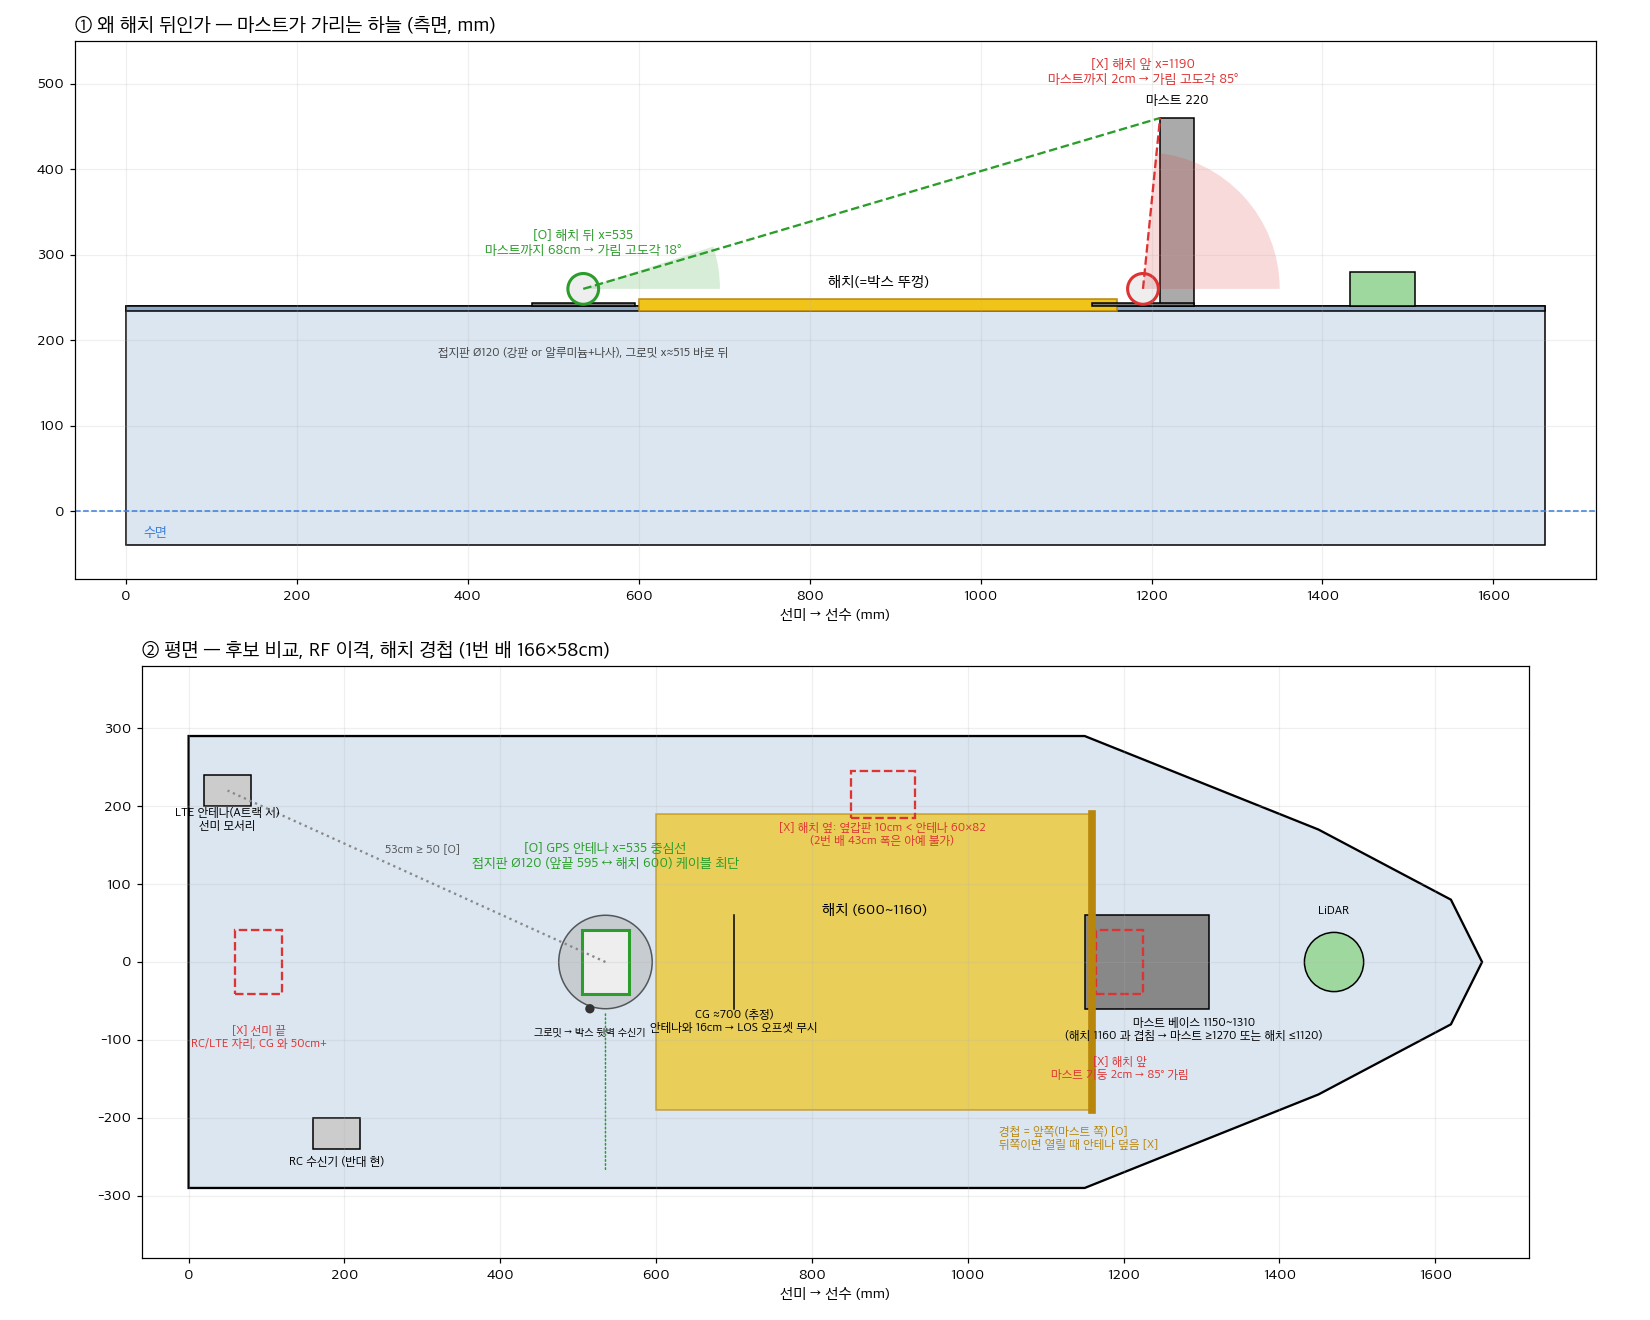
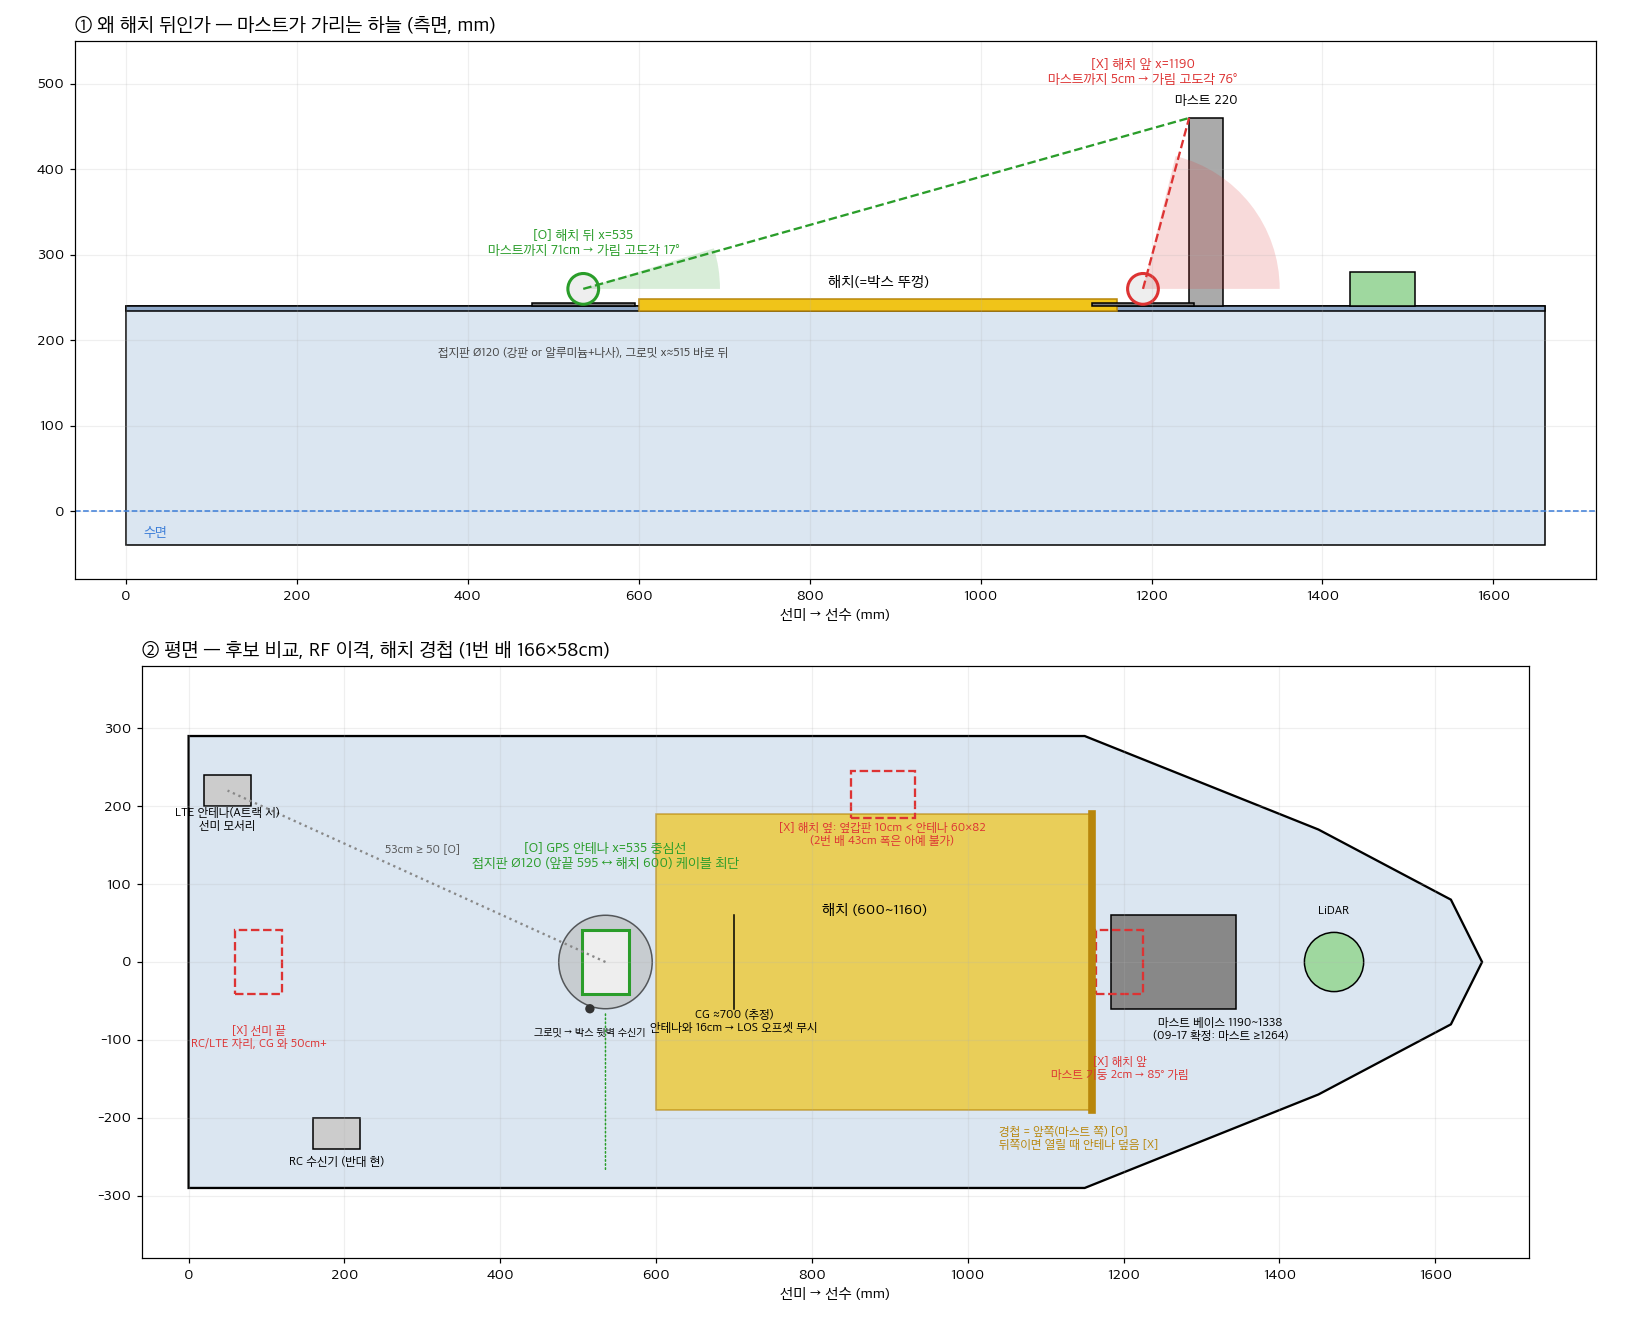
docs/tools: 마스트 x 1230 -> 1264 를 그림·회신 프롬프트까지 반영
앞 커밋에서 배치 요구사항과 출력지침만 고쳤고 그림 스크립트와 회신 프롬프트가 1230 으로 남아 있었다.
(추천도 스크립트는 치환 패턴이 안 맞아 실제로는 안 바뀐 채 그림만 다시 그려졌었다)

- tools/mast_recommend_plot.py MX 1230->1264, 라벨 'x≈1230 ?' -> 'x>=1264'
- tools/gps_antenna_plot.py MX 1230->1264, '마스트 >=1270 또는 해치 <=1120' -> '>=1264 확정'
- 하드웨어_위치_회신_프롬프트: 담당자에게 주는 마스트 x 를 >=1264 로 (사람이 이 값으로 실측한다)
- 마스트_요구사항 2-6 의 FOV 계산은 당시 기록이라 숫자를 바꾸지 않고 주석만 달았다
  (마스트가 밀려 뱃머리 거리 41 -> 약 37cm)

그림 2장 재생성.

diff --git a/tools/mast_recommend_plot.py b/tools/mast_recommend_plot.py
@@ -39,14 +39,14 @@ GX = 480
 ax.add_patch(Rectangle((GX - 60, DECK), 120, 4, fc="#999", ec="k"))
 ax.add_patch(Circle((GX, DECK + 22), 20, fc="#eee", ec="k")); ax.text(GX, DECK + 56, "GPS 안테나[확정]\n뚜껑 옆 고정 갑판 + 접지판Ø10cm+", ha="center", fontsize=9)
 # 마스트
-MX = 1230
+MX = 1264   # [09-17] 1230→1264: 베이스 147.8 깊이 + 해치 이격 30
 ax.add_patch(Rectangle((MX - 95, DECK), 190, 28, fc="#888", ec="k"))  # base v2 (IMU 포켓, 두께 IMU 높이 따라 20~28)
 ax.add_patch(Rectangle((MX - 20, DECK + 28), 40, 158, fc="#aaa", ec="k"))  # column → 캡 상단 186
 ax.add_patch(Rectangle((MX + 20, DECK + 89), 90, 6, fc="#777", ec="k"))  # D455 선반 (갑판+95, 관 면에서 40 물림)
 ax.add_patch(Rectangle((MX + 66, DECK + 95), 26, 29, fc="#7aa7e8", ec="k")); ax.text(MX + 130, DECK + 100, "D455 (조종) 아래단 선반 −15° [v2]\n렌즈 ≈ 갑판+110", fontsize=9, va="top")
 ax.add_patch(Rectangle((MX + 27, DECK + 134), 31, 82, fc="#f4a261", ec="k")); ax.text(MX + 130, DECK + 200, "OAK-1 PoE 꼭대기 −11°, 롤 0 [v2 확정]\n중심 갑판+175, 상단 218 ≤ 220\n뒷면 M4×4, RJ45 그랜드 아래(끝 ≈+97)", fontsize=9, va="top")
 ax.add_patch(Rectangle((MX + 30, DECK + 99), 16, 35, fc="#c98a3a", ec="k"))  # RJ45 그랜드
-ax.text(MX - 60, DECK + 250, "마스트 v2 ≤220mm 프린트(PETG/ASA)[확정]\nx≈1230 ? (박스 자리 확정 후)\n갑판 관통 M5×4 + 가로대", ha="center", fontsize=9)
+ax.text(MX - 60, DECK + 250, "마스트 v2 ≤220mm 프린트(PETG/ASA)[확정]\nx≥1264 (베이스 147.8 + 해치 이격 30)\n갑판 관통 M5×4 + 가로대", ha="center", fontsize=9)
 ax.annotate("", xy=(MX + 110, DECK), xytext=(MX + 110, DECK + 220), arrowprops=dict(arrowstyle="<->", color="k")); ax.text(MX + 116, DECK + 40, "220", fontsize=9)
 # IMU (마스트 베이스 포켓)
 ax.add_patch(Rectangle((MX - 82, DECK + 4), 50, 20, fc="#c00", ec="k")); ax.text(MX - 125, DECK + 150, "IMU 베이스 포켓 + 나일론 M3 뚜껑[확정, v2]\n케이스 실측 대기(가정 50×50×20)\n굵은 배선과 30cm+, |m| 확인 ▼", ha="right", va="bottom", fontsize=8, color="#c00"); ax.plot([MX - 130, MX - 57], [DECK + 148, DECK + 26], color="#c00", lw=0.8)

diff --git a/tools/gps_antenna_plot.py b/tools/gps_antenna_plot.py
@@ -13,7 +13,7 @@ matplotlib.rcParams["axes.unicode_minus"] = False
 OUT = os.path.join(os.path.dirname(os.path.abspath(__file__)), "..", "docs", "전달용", "배치도", "gps_antenna_position.png")
 L, W = 1660, 580
 BX0, BX1 = 600, 1160          # 박스(=해치) 앞뒤 (선미 기준)
-MX, LX = 1230, 1470
+MX, LX = 1264, 1470   # [09-17] 마스트 1230→1264 (베이스 깊이)
 GX = 535                      # [O] 안테나 (09-16: 케이블 짧아 해치 바로 뒤로. 접지판 Ø120)
 DECK = 240                    # 건현 가정
 MAST_TOP = DECK + 220
@@ -46,7 +46,7 @@ hull = Polygon([[0, -W/2], [1150, -W/2], [1450, -W/2 + 120], [1620, -80], [1660,
 a2.add_patch(hull)
 a2.add_patch(Rectangle((BX0, -190), BX1 - BX0, 380, fc="#f0c419", ec="#b8860b", alpha=0.7)); a2.text((BX0 + BX1) / 2, 60, "해치 (600~1160)", ha="center", fontsize=10)
 a2.plot([BX1, BX1], [-190, 190], color="#b8860b", lw=5); a2.text(BX1 - 120, -240, "경첩 = 앞쪽(마스트 쪽) [O]\n뒤쪽이면 열릴 때 안테나 덮음 [X]", fontsize=8, color="#b8860b")
-a2.add_patch(Rectangle((MX - 80, -60), 160, 120, fc="#888", ec="k")); a2.text(MX + 60, -100, "마스트 베이스 1150~1310\n(해치 1160 과 겹침 → 마스트 ≥1270 또는 해치 ≤1120)", ha="center", fontsize=8)
+a2.add_patch(Rectangle((MX - 80, -60), 160, 120, fc="#888", ec="k")); a2.text(MX + 60, -100, "마스트 베이스 1190~1338\n(09-17 확정: 마스트 ≥1264)", ha="center", fontsize=8)
 a2.add_patch(Circle((LX, 0), 38, fc="#9fd89f", ec="k")); a2.text(LX, 60, "LiDAR", ha="center", fontsize=8)
 # [O] GPS
 a2.add_patch(Circle((GX, 0), 60, fc="#bbb", ec="k", alpha=0.6)); a2.add_patch(Circle((GX - 20, -60), 6, fc="#333")); a2.text(GX - 20, -95, "그로밋 → 박스 뒷벽 수신기", ha="center", fontsize=7); a2.add_patch(Rectangle((GX - 30, -41), 60, 82, fc="#eee", ec="#2a9d2a", lw=2))

diff --git a/docs/전달용/하드웨어_위치_회신_프롬프트.md b/docs/전달용/하드웨어_위치_회신_프롬프트.md
@@ -21,7 +21,7 @@
 
 [이미 정해진 것 — 2026-09-16 기준]
 - 갑판(FRP) 을 선체 위에 덮는다. 방수 박스는 갑판 아래 선체 안, 박스 뚜껑 = 해치(갑판 면에 노출). 비상버튼은 뚜껑 위.
-- 마스트: 3D 프린트(PETG/ASA), 갑판 위 최고점 ≤ 220mm, 중심선, 선수가 좁아지기 직전(1번 배 선미에서 ≈1230mm, 2번 배 ≈1130mm). FRP 갑판 관통 M5×4 + 뒷면 와셔/백플레이트.
+- 마스트: 3D 프린트(PETG/ASA), 갑판 위 최고점 ≤ 220mm, 중심선, 선수가 좁아지기 직전(1번 배 선미에서 **≥1264mm**(09-17: 베이스 147.8 깊이 + 해치 이격 30), 2번 배 ≈1130mm(미확정)). FRP 갑판 관통 M5×4 + 뒷면 와셔/백플레이트.
 - 마스트에 올라가는 것: **OAK-1 PoE 카메라(꼭대기, 중심 갑판 +175, 아래 11°)**, **RealSense D455(아래 선반 갑판 +85, 아래 15°)**, **IMU(베이스 블록 포켓 — 베이스 우현(+X) 쪽, 케이블은 관 쪽(−X) Ø8 터널로 중앙 구멍에 합류)**. 그 외는 안 올린다.
 - 소프트 쪽 사실: 조향 후보는 LiDAR **전방 ±80°(0~160°)** 만 쓴다(`ship_direction` LIDAR_FORWARD_DEG=80). IMU 는 **z축 위(UP)**, 헤딩은 자기(N4) — 절차 `docs/문제와작업/N4_mag_heading_B_준비.md`. GPS 헤딩(Moving Baseline)은 **현재 계획에 없음**(안테나 1개).
 - LiDAR(RPLIDAR A3): 선수 끝 중심선, **갑판에 직접**(회전면 갑판 +30mm). 1번 배는 높이 조절 슬롯 ±100mm.
@@ -45,7 +45,7 @@
 - 보드의 "앞"(X축 화살표 또는 데이터시트 기준 heading 0) 이 케이스의 어느 면인가. 케이스에 표시가 있나.
 - 고정 방식: 케이스에 나사 구멍이 있나(위치·지름), 없으면 포켓에 끼워 뚜껑으로 누르는 방식으로 되나.
 - 배 A/B 둘 다 같은 IMU 인가(WT901C 얘기가 문서에 있음 — 지금 실물이 뭔가).
-- 마스트 베이스에 넣으면 갑판 위 5~25mm 높이, 선체 중심선, 마스트 x 위치(선미에서 1130~1230mm)가 된다. 무게중심에서 앞으로 200~400mm 떨어진 자리인데 문제 있나(진동·가속도 팔길이).
+- 마스트 베이스에 넣으면 갑판 위 5~25mm 높이, 선체 중심선, 마스트 x 위치(선미에서 1130~1264mm)가 된다. 무게중심에서 앞으로 200~400mm 떨어진 자리인데 문제 있나(진동·가속도 팔길이).
 - 자기장: 굵은 배선·모터에서 300mm 이상 떨어지는지 박스 위치 기준으로 확인 가능한가. 장착 후 확인 절차는 이미 있다 — 시리얼 `m` 명령으로 원시 자기장 읽어 |m|≈50µT 확인, 그 뒤 `cm` 자기보정(`N4_mag_heading_B_준비.md` §2-A). 담당이 그 절차를 직접 돌릴 수 있나(장비·케이블).
 - 케이스가 **없으면**(보드 노출) 포켓에 보드를 직접 넣어야 한다 — 절연(포켓 바닥 고무/PETG 는 절연이라 OK)과 나사 구멍 여부, 커넥터 방향을 알려달라. 케이블은 포켓의 **관 쪽(−X, 좌현 방향)** 면으로 나가는 게 기본 — 다른 면이면 그 면을 적어라(코드는 `IMU_CH_DIR` 한 줄).
 - 케이블 길이: 마스트 베이스 → 갑판 밑 → 박스 앞면 → 허브/노트북까지 **≈1m 이상** 필요. 지금 케이블 길이와 커넥터(USB? TTL?).
@@ -196,7 +196,7 @@ RC 수신기 안테나 위치 / LTE 안테나 위치 / 관통 방식:
 
 [물어볼 것]
 - 갑판 두께·재질·적층(FRP 몇 겹). 마스트 베이스(190×120) 밑에 가로대(알루미늄 평철 25×3) 2개 넣을 건데 간격(현재 90mm 가정) 과 볼트 M5 관통 가능 여부. 볼트 길이 = 갑판 두께 + 베이스 두께(20~28) + 10.
-- 갑판이 곡면인가 평면인가 — 마스트 자리(선미에서 1130~1230mm)에서 좌우 곡률.
+- 갑판이 곡면인가 평면인가 — 마스트 자리(선미에서 1130~1264mm)에서 좌우 곡률.
 - 해치 개구 위치·크기(회로팀 박스와 맞춰서), 마스트 베이스 뒤 가장자리 ↔ 해치 앞 가장자리 여유 ≥30mm 확보되나.
 - 선수 판(LiDAR 자리) 내폭·평면 크기, 1번 배 ±100 슬롯 마운트를 어디에 어떻게 고정할지.
 - 건현(수면→갑판): 진수했으면 실측, 아니면 배 무게 추정치와 함께 예상값. 배 총 무게(장비 포함) 추정.

diff --git a/docs/전달용/마스트_요구사항.md b/docs/전달용/마스트_요구사항.md
@@ -75,6 +75,7 @@
 배치 요구사항의 D455 위(−15°)/OAK 아래(−7°)는 시야 계산 없이 정한 값. 계산:
 - 수직 화면 = 하늘 / **물(수평선~뱃머리 끝)** / 자기 갑판. **물 띠 각도 = atan(갑판 위 높이 / 뱃머리 거리)** — 틸트와 무관, 높이로만 늘어남.
 - 1번 배 뱃머리 거리 41cm(마스트 x≈1230), OAK VFOV 55°:
+  > ⚠ 09-17: 베이스가 147.8 로 깊어져 **마스트가 ≥1264 로 밀렸다**(뱃머리 거리 ≈37cm). 아래는 당시 기록이다.
 
 | OAK 위치 | 갑판 위 | 물 띠 | 하늘/물/갑판 | 선수 앞 사각 |
 |---|---|---|---|---|
